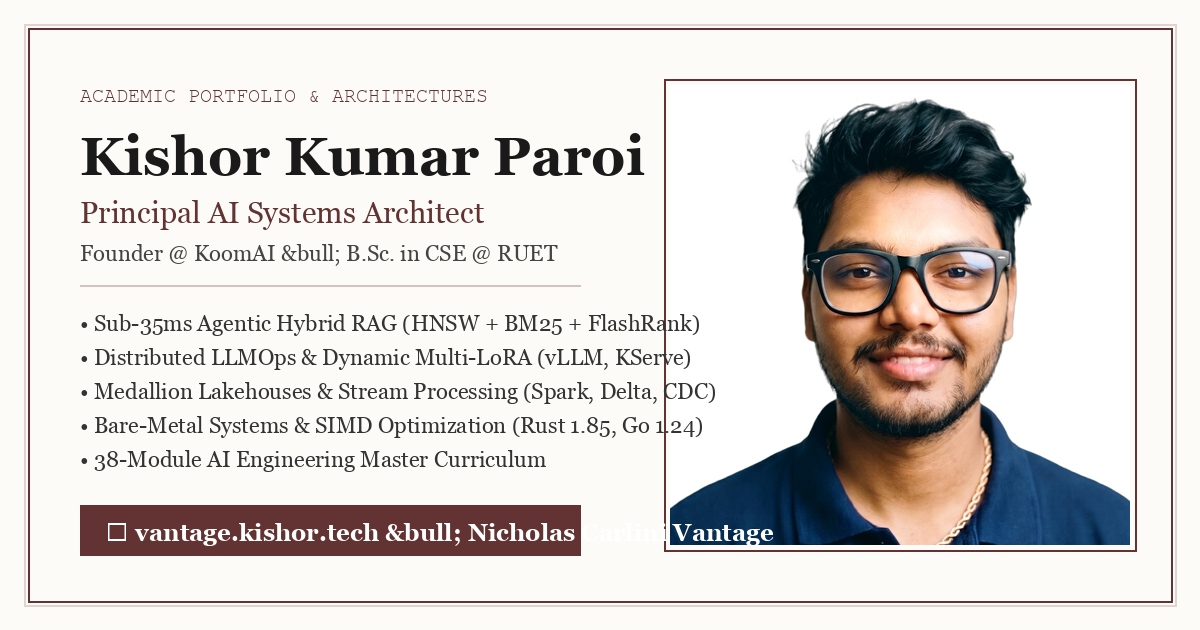
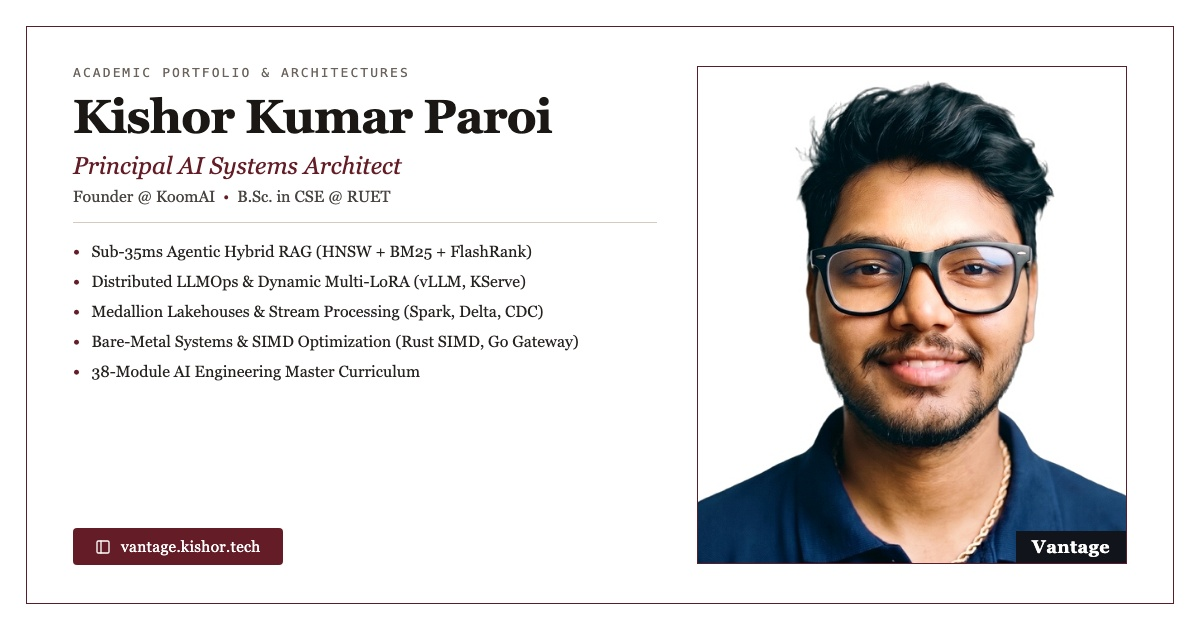
fix(branding): regenerate og-preview card to remove &bull; Nicholas attribution and point compiler versions

diff --git a/generate_og_card.html b/generate_og_card.html
@@ -1,0 +1,184 @@
+<!DOCTYPE html>
+<html>
+<head>
+<meta charset="utf-8">
+<link rel="preconnect" href="https://fonts.googleapis.com">
+<link rel="preconnect" href="https://fonts.gstatic.com" crossorigin>
+<link href="https://fonts.googleapis.com/css2?family=Lora:ital,wght@0,400;0,500;0,600;0,700;1,400;1,600&family=JetBrains+Mono:wght@400;500;600&display=swap" rel="stylesheet">
+<style>
+  * { box-sizing: border-box; margin: 0; padding: 0; }
+  body {
+    width: 1200px;
+    height: 630px;
+    background: #ffffff;
+    font-family: "Lora", Georgia, serif;
+    display: flex;
+    align-items: center;
+    justify-content: center;
+    padding: 26px;
+  }
+  .card-container {
+    width: 1148px;
+    height: 578px;
+    border: 1.5px solid #5a1e28;
+    background: #ffffff;
+    display: flex;
+    padding: 38px 46px;
+    position: relative;
+  }
+  .left-col {
+    flex: 1;
+    display: flex;
+    flex-direction: column;
+    justify-content: space-between;
+    padding-right: 30px;
+  }
+  .eyebrow {
+    font-family: "JetBrains Mono", monospace;
+    font-size: 13px;
+    letter-spacing: 0.16em;
+    text-transform: uppercase;
+    color: #6b635c;
+    margin-bottom: 12px;
+  }
+  .name {
+    font-size: 47px;
+    font-weight: 700;
+    color: #1a1715;
+    line-height: 1.08;
+    margin-bottom: 9px;
+    letter-spacing: -0.015em;
+  }
+  .title {
+    font-size: 24px;
+    font-weight: 500;
+    font-style: italic;
+    color: #641C26;
+    margin-bottom: 8px;
+  }
+  .subtitle {
+    font-size: 16px;
+    color: #4a4542;
+    margin-bottom: 16px;
+    display: flex;
+    align-items: center;
+    gap: 8px;
+  }
+  .bullet-dot {
+    color: #641C26;
+    font-size: 15px;
+  }
+  .divider {
+    height: 1px;
+    background: #d4cbc0;
+    width: 100%;
+    margin-bottom: 18px;
+  }
+  .points-list {
+    list-style: none;
+    display: flex;
+    flex-direction: column;
+    gap: 8.5px;
+  }
+  .points-list li {
+    font-size: 16px;
+    color: #262220;
+    line-height: 1.35;
+    display: flex;
+    align-items: flex-start;
+  }
+  .points-list li::before {
+    content: "•";
+    color: #641C26;
+    font-weight: bold;
+    display: inline-block;
+    width: 1.15em;
+    flex-shrink: 0;
+  }
+  .badge-bar {
+    margin-top: 18px;
+    display: inline-flex;
+    align-items: center;
+    background: #641C26;
+    color: #ffffff;
+    padding: 10px 22px;
+    border-radius: 4px;
+    font-family: "Lora", Georgia, serif;
+    font-size: 15.5px;
+    font-weight: 500;
+    letter-spacing: 0.02em;
+  }
+  .badge-bar svg {
+    margin-right: 10px;
+  }
+  .right-col {
+    width: 440px;
+    display: flex;
+    align-items: center;
+    justify-content: flex-end;
+  }
+  .portrait-frame {
+    width: 430px;
+    height: 498px;
+    border: 1.5px solid #5a1e28;
+    overflow: hidden;
+    position: relative;
+    background: #ffffff;
+  }
+  .portrait-frame img {
+    width: 100%;
+    height: 100%;
+    object-fit: cover;
+    object-position: center top;
+  }
+  .portrait-tag {
+    position: absolute;
+    bottom: 0;
+    right: 0;
+    background: #11141a;
+    color: #ffffff;
+    font-family: "Lora", Georgia, serif;
+    font-size: 18px;
+    font-weight: 700;
+    letter-spacing: 0.02em;
+    padding: 5px 16px 6px 16px;
+  }
+</style>
+</head>
+<body>
+  <div class="card-container">
+    <div class="left-col">
+      <div>
+        <div class="eyebrow">Academic Portfolio &amp; Architectures</div>
+        <h1 class="name">Kishor Kumar Paroi</h1>
+        <div class="title">Principal AI Systems Architect</div>
+        <div class="subtitle">
+          <span>Founder @ KoomAI</span>
+          <span class="bullet-dot">•</span>
+          <span>B.Sc. in CSE @ RUET</span>
+        </div>
+        <div class="divider"></div>
+        <ul class="points-list">
+          <li>Sub-35ms Agentic Hybrid RAG (HNSW + BM25 + FlashRank)</li>
+          <li>Distributed LLMOps &amp; Dynamic Multi-LoRA (vLLM, KServe)</li>
+          <li>Medallion Lakehouses &amp; Stream Processing (Spark, Delta, CDC)</li>
+          <li>Bare-Metal Systems &amp; SIMD Optimization (Rust SIMD, Go Gateway)</li>
+          <li>38-Module AI Engineering Master Curriculum</li>
+        </ul>
+      </div>
+      <div>
+        <div class="badge-bar">
+          <svg width="16" height="16" viewBox="0 0 24 24" fill="none" stroke="currentColor" stroke-width="2" stroke-linecap="round" stroke-linejoin="round"><rect x="3" y="3" width="18" height="18" rx="2" ry="2"></rect><line x1="9" y1="3" x2="9" y2="21"></line></svg>
+          <span>vantage.kishor.tech</span>
+        </div>
+      </div>
+    </div>
+    <div class="right-col">
+      <div class="portrait-frame">
+        <img src="file:///Users/kishorkumarparoi/job-project/vantage-portfolio/kishor.jpg" alt="Kishor Kumar Paroi">
+        <div class="portrait-tag">Vantage</div>
+      </div>
+    </div>
+  </div>
+</body>
+</html>

diff --git a/index.html b/index.html
@@ -11,8 +11,8 @@
     <meta property="og:url" content="https://vantage.kishor.tech/">
     <meta property="og:title" content="Kishor Kumar Paroi — Principal AI Systems Architect &amp; Founder @ KoomAI">
     <meta property="og:description" content="AI Systems Architect | (Dev/ML/LLM/AI)Ops | Founder@KoomAI | FDE(LangGraph, Kubernetes, Kubeflow, GCP, Hybrid RAG&lt;35ms, Agent Mesh, AI Security) | vLLM, Finetune | Data Engineer(Azure, AWS, Databricks, Snowflake) | Rust SIMD">
-    <meta property="og:image" content="https://vantage.kishor.tech/og-preview.jpg?v=4">
-    <meta property="og:image:secure_url" content="https://vantage.kishor.tech/og-preview.jpg?v=4">
+    <meta property="og:image" content="https://vantage.kishor.tech/og-preview.jpg?v=5">
+    <meta property="og:image:secure_url" content="https://vantage.kishor.tech/og-preview.jpg?v=5">
     <meta property="og:image:width" content="1200">
     <meta property="og:image:height" content="630">
     <meta property="og:image:alt" content="Kishor Kumar Paroi — Principal AI Systems Architect">
@@ -24,7 +24,7 @@
     <meta name="twitter:creator" content="@Mr_paroi">
     <meta name="twitter:title" content="Kishor Kumar Paroi — Principal AI Systems Architect">
     <meta name="twitter:description" content="AI Systems Architect | (Dev/ML/LLM/AI)Ops | Founder@KoomAI | FDE(LangGraph, Kubernetes, Kubeflow, GCP, Hybrid RAG&lt;35ms, Agent Mesh, AI Security) | vLLM, Finetune | Data Engineer(Azure, AWS, Databricks, Snowflake) | Rust SIMD">
-    <meta name="twitter:image" content="https://vantage.kishor.tech/og-preview.jpg?v=4">
+    <meta name="twitter:image" content="https://vantage.kishor.tech/og-preview.jpg?v=5">
 
     <link rel="preconnect" href="https://fonts.googleapis.com">
     <link rel="preconnect" href="https://fonts.gstatic.com" crossorigin>
